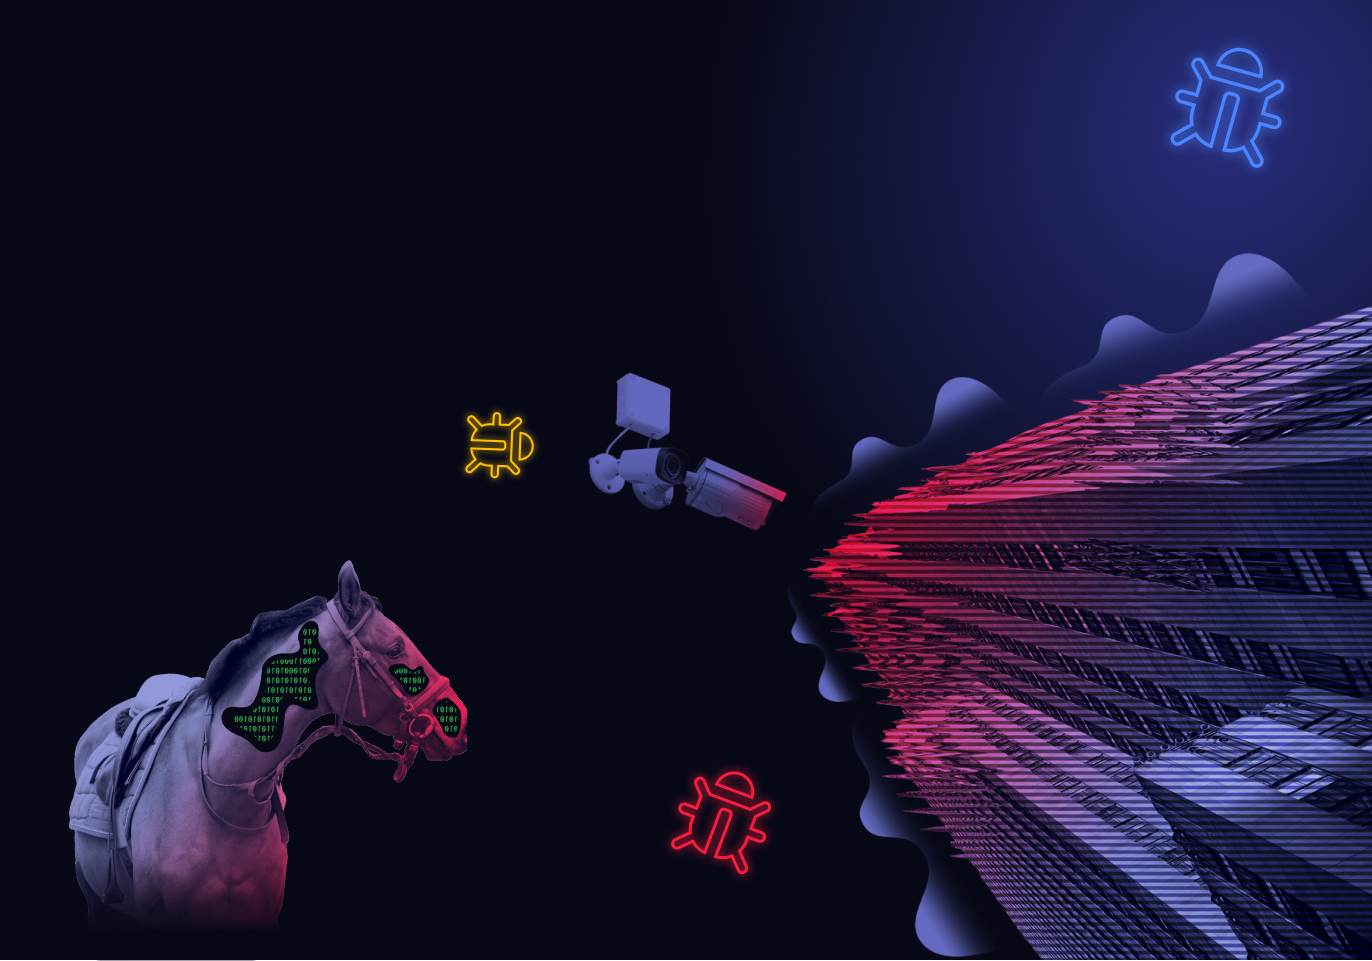
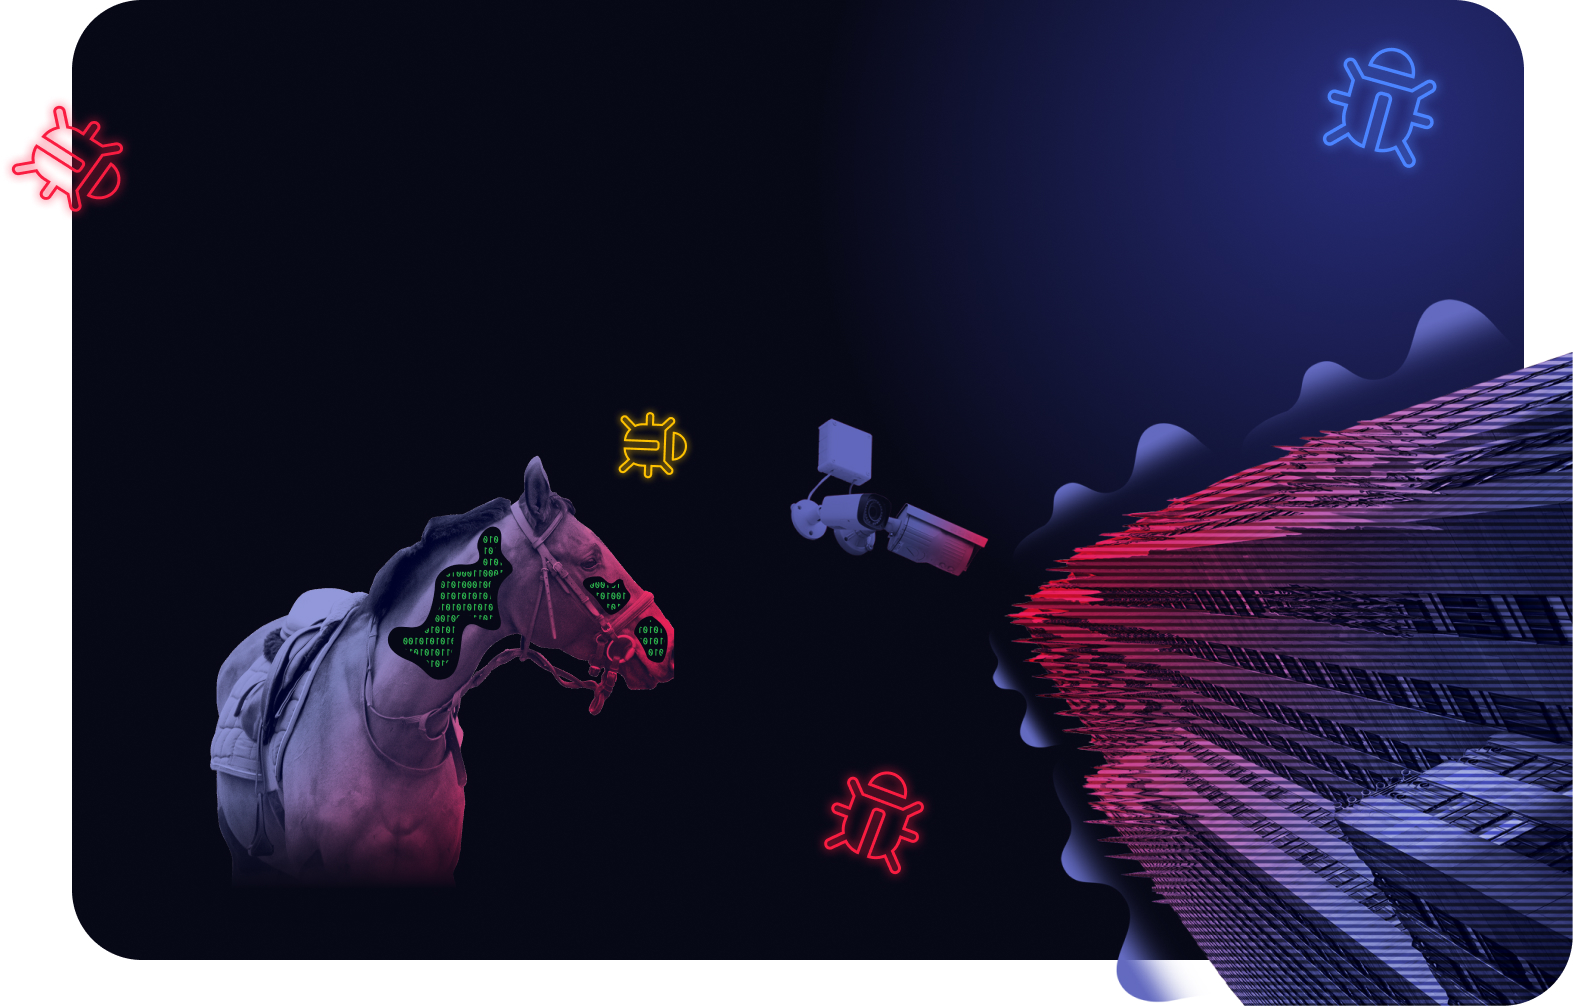
ADD: Fix on Paragraphs, add blur, change hero image of BTA

diff --git a/css/style.css b/css/style.css
@@ -67,6 +67,7 @@ header{
   top:0;
   z-index:9;
   transition: top 0.2s ease-in-out;
+  backdrop-filter: blur(2px);
 }
 
 .flex-hor{
@@ -80,7 +81,6 @@ header{
 .box-menu{
   display: inline-block;
   float: right;
-  padding: 0px 36px 0px 0px;
 }
 
 
@@ -412,7 +412,7 @@ footer{
   color: #424242;
   float: left;
   font-size: 26px;
-  padding-left: 15px;
+  padding-left: 10px;
 }
 
 
@@ -860,12 +860,12 @@ g{
     display:block;
     position:fixed;
     line-height: 88px;
-  } 
+    background-color: white;
+  }
 
   .box-menu{
     display: inline-block;
     float: right;
-    padding:0px 36px 0px 0px;
   }
 
   .description-desktop-white-rotate{
@@ -931,6 +931,7 @@ g{
     cursor:pointer;
     display: block;
     color: inherit;
+    margin:0px 24px 0px 24px;
   }
   
   footer{
@@ -1064,6 +1065,7 @@ g{
   }
   .logo-desktop-white-rotate{
     display: none;
+    padding-left:10px;
   }
 
   .margin-top80{
@@ -1092,8 +1094,9 @@ g{
     margin:auto;
   }
   .paragraph-mobile{
-    padding: 24px 5% 16px 8%;
+    padding: 24px 0% 16px 0%;
     font-size: 18px;
+    line-height: 160%;
   }
 
   .title-mobile{
@@ -1204,13 +1207,13 @@ g{
   .box-menu{
     display: inline-block;
     float: right;
-    padding:36px 36px 0px 0px;
   }
 
   .menu-hamburger {
     cursor:pointer;
     display: block;
     color: inherit;
+    margin:0px 32px 0px 40px;
   }
 
   h1{
@@ -1503,13 +1506,13 @@ g{
   .box-menu{
     display: inline-block;
     float: right;
-    padding:36px 36px 0px 0px;
   }
 
   .menu-hamburger {
     cursor:pointer;
     display: block;
     color: inherit;
+    margin:0px 32px 0px 40px;
   }
 
   #content-right{
@@ -1521,6 +1524,7 @@ g{
   .single-box{
     margin: auto;
     width:70%;
+    max-width: 1000px;
   }
 
   .single-right-box{
@@ -1664,7 +1668,7 @@ g{
   }
 
   .paragraph-mobile{
-    padding: 20px 20% 40px 20%;
+    padding: 20px 10% 40px 10%;
     font-size: 24px;
     line-height: 160%;
   }
@@ -1785,7 +1789,6 @@ g{
   .box-menu{
     display: inline-block;
     float: right;
-    padding:0px 36px 0px 0px;
   }
 
   .hero-image{
@@ -1796,7 +1799,7 @@ g{
     cursor:pointer;
     display: block;
     color: inherit;
-    margin-left:40px;
+    margin:0px 32px 0px 40px;
   }
 
   .description {
@@ -1909,9 +1912,9 @@ g{
   }
 
   .paragraph-mobile{
-    padding: 0px 20% 60px 20%;
-    font-size: 28px;
-    line-height: 160%;
+    padding: 0px 10% 60px 10%;
+    font-size: 24px;
+    line-height: 175%;
   }
 
   .title-mobile{

diff --git a/backtrack-academy.html b/backtrack-academy.html
@@ -61,8 +61,8 @@
       <div class="box-menu">
         <div class="flex-hor">
           <div>
-            <a class="lang underline" href="/eng/backtrack-academy.html">ENG</a> | 
-            <a class="lang" href="/backtrack-academy.html">ESP</a>
+            <a class="lang" href="/eng/backtrack-academy.html">ENG</a> | 
+            <a class="lang underline" href="/backtrack-academy.html">ESP</a>
           </div>
           <img class="menu-hamburger" src="/img/menusandwich.svg" alt="">
         </div>
@@ -77,14 +77,14 @@
     <div class="content fade-in-element">
       <div class="single-right-box">
           <picture>
-            <img class="box-artwork-single" src="/img/Backtrack-Academy.jpg" alt="ilustración, aparece un usuario descargando curriculums desde una nube y analítica de un candidato ©Leandro Fuenzalida">
+              <img class="box-artwork-single" src="/img/Backtrack-Academy.jpg" alt="ilustración, aparece un usuario descargando curriculums desde una nube y analítica de un candidato ©Leandro Fuenzalida">
           </picture>
       </div>
       <div class="single-box">
-        <a class="breadcrumbs" href="/eng/index.html">« Cases</a> / Backtrack Academy
+        <a class="breadcrumbs" href="/eng/index.html">« Home</a> / Backtrack Academy
         <h1 class="title-mobile">Backtrack Academy</h1>
         <h2 class="brand-mobile">Backtrack Academy spa</h2>
-        <p class="paragraph-mobile">En plena pandemia colaboré como Product Designer para una Academia de Ethical Hacking de Santiago de Chile. Con mas de 50.000 usuarios registrados mayoritariamente de habla hispana, me involucré con el equipo en la investigación y hacer mejoras en la plataforma de educación, crear un nuevo logo y un scanner de vulnerabilidades que estaban desarrollando.
+        <p class="paragraph-mobile">En plena pandemia colaboré como Product Designer para Backtrack Academy una Academia de Ethical Hacking de Santiago de Chile. Con mas de 50.000 usuarios registrados mayoritariamente de habla hispana, me contrataron para investigar y hacer mejoras en la plataforma de educación, crear un nuevo logo y un scanner de vulnerabilidades que estaban desarrollando.
         </p>
 
         <p class="paragraph-mobile">Hicimos un análisis del trafico interno de la plataforma y encontramos que los usuarios volvían a reproducir los videos de los cursos por poco tiempo, teníamos una hipótesis pero queríamos validarla. <br><br>
